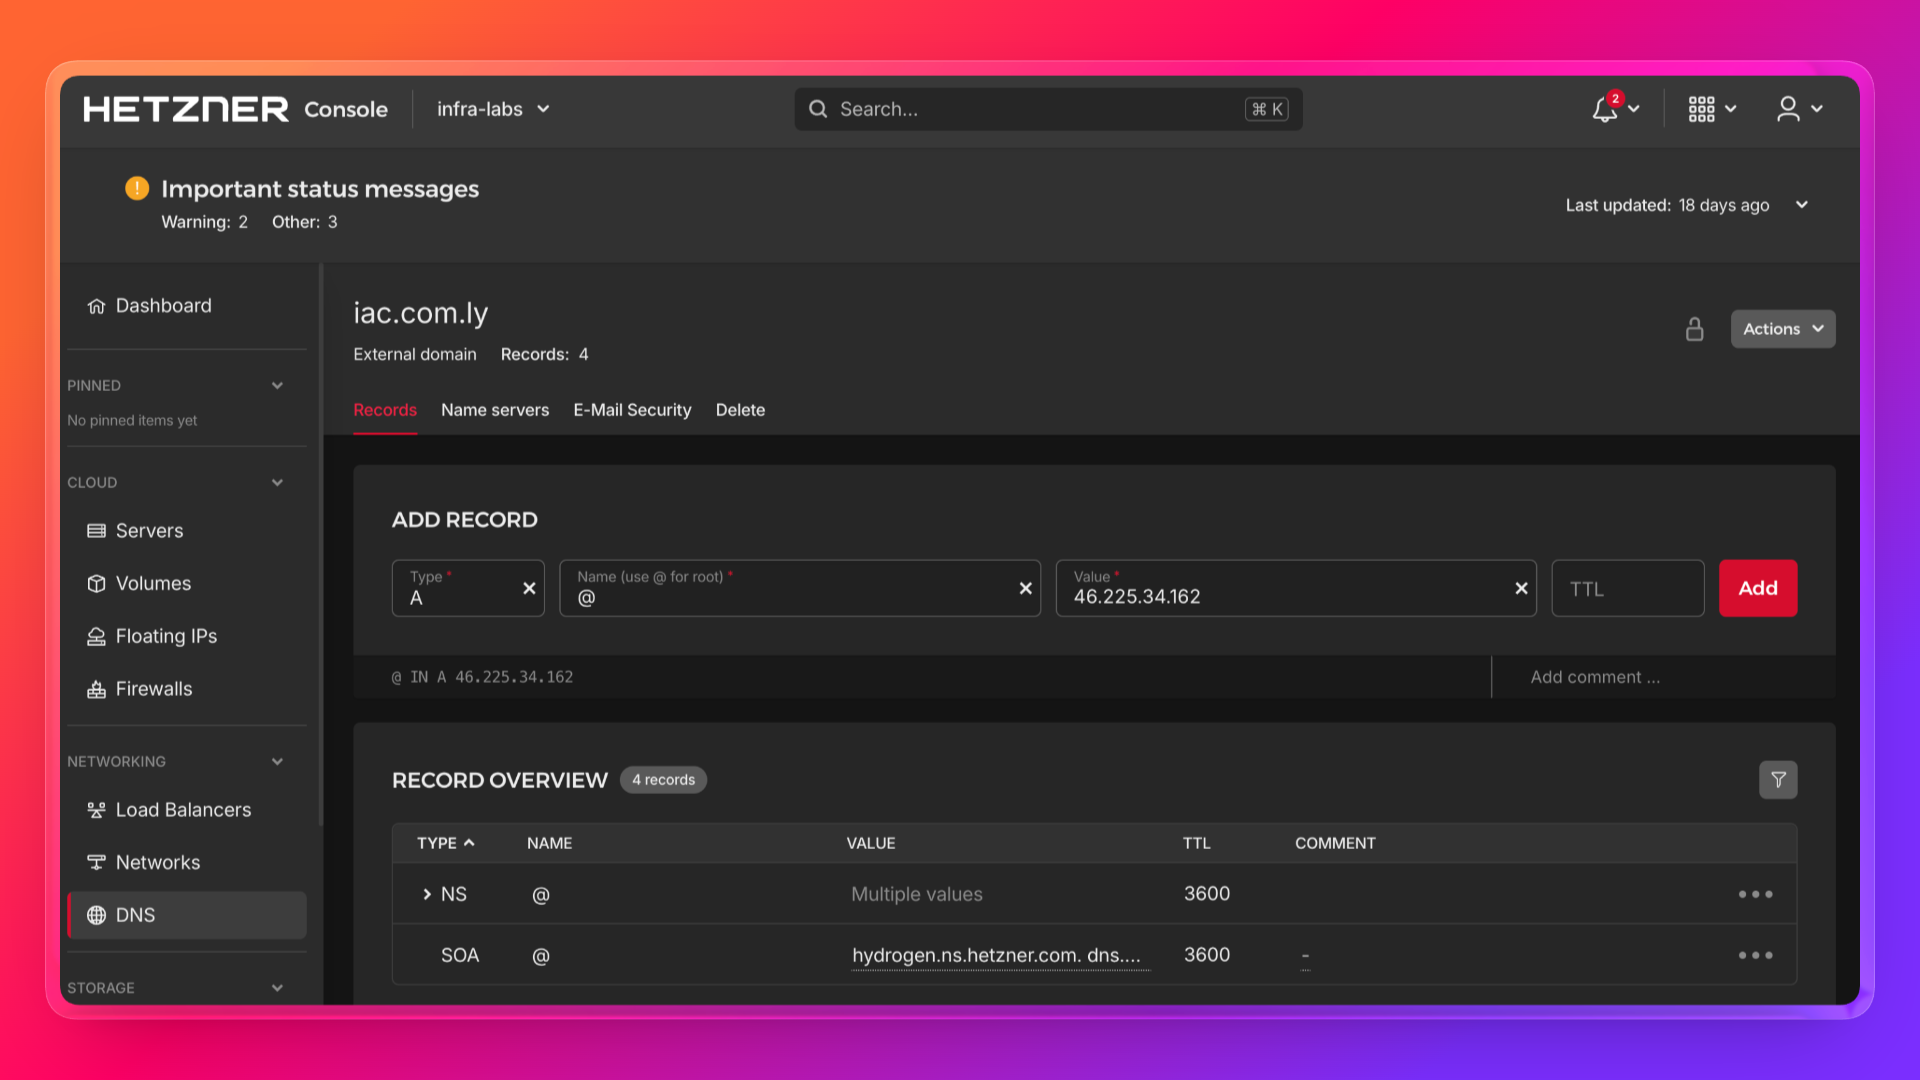
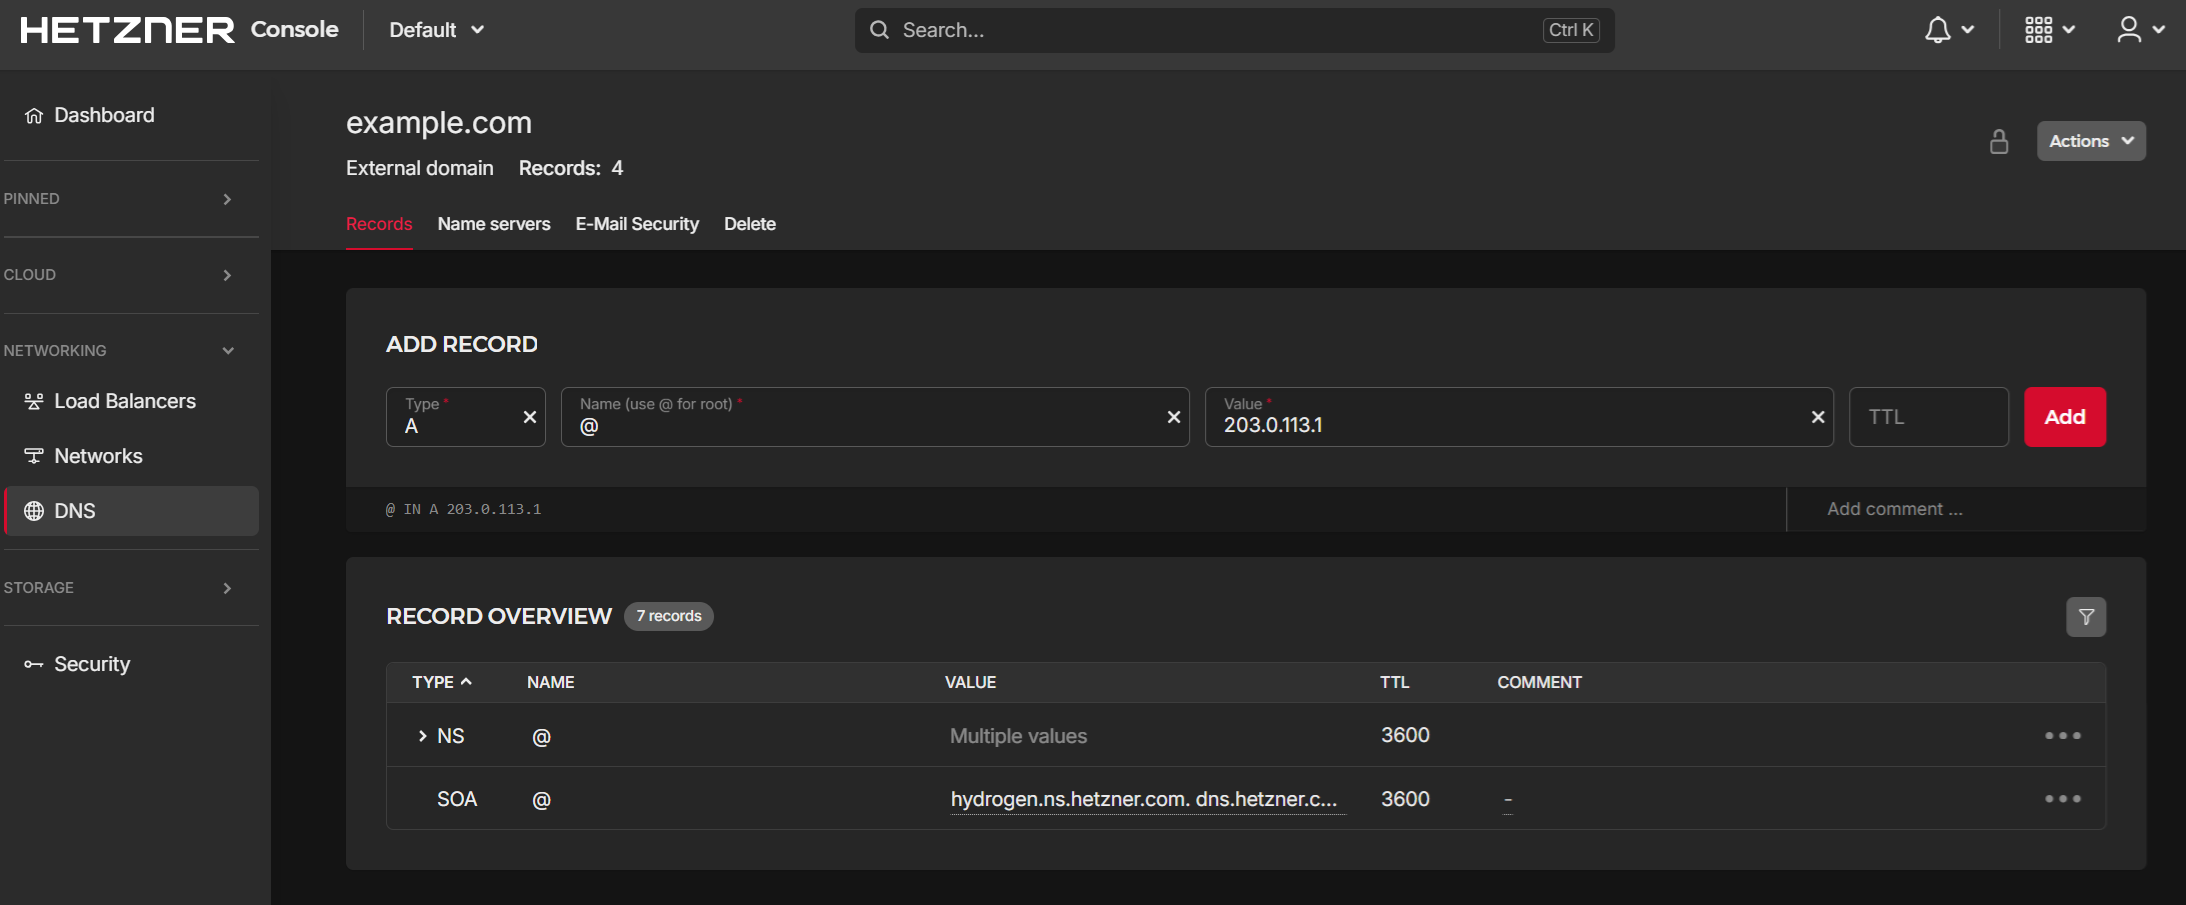
Spelling and formatting updates

diff --git a/tutorials/pulumi-load-balancer-tls-termination-hetzner/01.en.md b/tutorials/pulumi-load-balancer-tls-termination-hetzner/01.en.md
@@ -2,7 +2,7 @@
 SPDX-License-Identifier: MIT
 path: "/tutorials/pulumi-load-balancer-tls-termination-hetzner"
 slug: "pulumi-load-balancer-tls-termination-hetzner"
-date: "2026-03-24"
+date: "2026-03-31"
 title: "TLS Termination on a Hetzner Load Balancer using Pulumi"
 short_description: "Add HTTPS to a Hetzner Load Balancer using a Hetzner managed certificate — TLS is terminated at the Load Balancer, servers stay on plain HTTP"
 tags: ["Pulumi", "TypeScript", "TLS", "Load Balancer", "Networking", "Ubuntu"]
@@ -35,20 +35,23 @@ By the end, you will have:
 - Completed [Pulumi Load Balancer with Two App Servers on Hetzner Cloud](https://community.hetzner.com/tutorials/pulumi-load-balancer-two-servers-hetzner), or already familiar with Pulumi and Hetzner Load Balancers
 - A domain name you can point to Hetzner DNS
 - Hetzner Cloud [API token](https://docs.hetzner.com/cloud/api/getting-started/generating-api-token)
-- [Node.js](https://nodejs.org/) 18 or later
-- [Pulumi CLI](https://www.pulumi.com/docs/install/) installed
+- [Node.js](https://nodejs.org/en/download) 18 or later
+- [Pulumi CLI](https://www.pulumi.com/docs/install/) installed and logged in:
+  ```bash
+  pulumi login --local
+  ```
 
 **Example values used in this tutorial**
 
 | Resource                 | Value            |
 | ------------------------ | ---------------- |
-| Domain                   | `iac.com.ly`     |
+| Domain                   | `example.com`    |
 | Network CIDR             | `10.44.0.0/16`   |
 | Private subnet           | `10.44.10.0/24`  |
 | Load Balancer private IP | `10.44.10.10`    |
 | App server 1 private IP  | `10.44.10.11`    |
 | App server 2 private IP  | `10.44.10.12`    |
-| Location                 | `nbg1`           |
+| Location                 | `hel1`           |
 | Server type              | `cx23`           |
 | OS image                 | `ubuntu-24.04`   |
 
@@ -75,17 +78,17 @@ Key points:
 
 > Complete this step first — DNS propagation can take up to 10 minutes. Start it now and continue with Step 2 while you wait.
 
-Hetzner managed certificates use Let's Encrypt DNS-01 validation. Let's Encrypt writes a `_acme-challenge` TXT record to your domain to prove ownership. For this to work automatically, your domain's DNS must be managed by Hetzner DNS.
+Hetzner managed certificates use [Let's Encrypt DNS-01](https://letsencrypt.org/docs/challenge-types/#dns-01-challenge) validation. Let's Encrypt writes a `_acme-challenge` TXT record to your domain to prove ownership. For this to work automatically, your domain's DNS must be managed by Hetzner DNS.
 
 ### Step 1.1 - Create a zone in Hetzner DNS
 
-Go to [dns.hetzner.com](https://dns.hetzner.com) and click **Add zone**. Enter your root domain name (e.g. `iac.com.ly`) and confirm.
+Go to [console.hetzner.com](https://console.hetzner.com) and [add a zone](https://docs.hetzner.com/networking/dns/getting-started/creating-a-zone). Enter your root domain name (e.g. `example.com`) and confirm.
 
-> Hetzner DNS only accepts root domains — not subdomains. Enter `iac.com.ly`, not `tls.iac.com.ly`.
+> Hetzner DNS only accepts root domains — not subdomains. Enter `example.com`, not `tls.example.com`.
 
 ![Add zone](images/hetzner-dns-zone.png)
 
-After the zone is created, Hetzner shows you the nameservers assigned to your zone:
+After the zone is created, Hetzner shows you the [nameservers assigned to your zone](https://docs.hetzner.com/networking/dns/overview#authoritative-name-servers):
 
 ```text
 hydrogen.ns.hetzner.com
@@ -103,10 +106,10 @@ At your domain registrar or DNS provider, update the nameservers for your domain
 
 ### Step 1.3 - Verify the delegation
 
-DNS changes can take a few minutes to propagate. Run this command to verify Hetzner DNS is now authoritative for your domain:
+DNS changes can take a while to propagate. Run this command to verify Hetzner DNS is now authoritative for your domain:
 
 ```bash
-dig NS iac.com.ly +short
+dig NS example.com +short
 ```
 
 When the output shows Hetzner's nameservers, you are ready to continue:
@@ -151,14 +154,23 @@ set -a && source .env && set +a
 
 Configure the stack:
 
+> Replace `~/.ssh/id_rsa.pub` with the path to your public key if it is different.
+
 ```bash
-pulumi config set domain iac.com.ly
+pulumi config set domain example.com
 pulumi config set sshPublicKeyPath ~/.ssh/id_rsa.pub
 pulumi config set --secret hcloudToken "$HCLOUD_TOKEN"
-pulumi config set sshAllowedCidrs "[\"$(curl -s ifconfig.me)/32\"]"
+pulumi config set sshAllowedCidrs "[\"$(curl -4 https://ip.hetzner.com)/32\"]"
 ```
 
-> If you already have an SSH key added to your Hetzner project, use `pulumi config set sshKeyName your-key-name` instead of `sshPublicKeyPath`.
+Check your values:
+
+```bash
+pulumi config get domain
+pulumi config get sshPublicKeyPath
+pulumi config get hcloudToken
+pulumi config get sshAllowedCidrs
+```
 
 ## Step 3 - Write the infrastructure code
 
@@ -189,7 +201,7 @@ if (!existingSshKeyName && !sshPublicKeyPath) {
   );
 }
 
-const location = projectConfig.get("location") ?? "nbg1";
+const location = projectConfig.get("location") ?? "hel1";
 const networkZone = projectConfig.get("networkZone") ?? "eu-central";
 const loadBalancerType = projectConfig.get("loadBalancerType") ?? "lb11";
 const serverType = projectConfig.get("serverType") ?? "cx23";
@@ -473,7 +485,7 @@ set -a && source .env && set +a
 pulumi preview
 ```
 
-You should see 14 resources to be created: provider, SSH key, firewall, network, subnet, 2 servers, Load Balancer, LB network attachment, 2 LB targets, managed certificate, and HTTPS service.
+You should see 14 resources to be created: provider, SSH key, Firewall, network, subnet, 2 servers, Load Balancer, LB network attachment, 2 LB targets, managed certificate, and HTTPS service.
 
 Deploy when ready:
 
@@ -481,7 +493,7 @@ Deploy when ready:
 pulumi up
 ```
 
-Pulumi prompts you to confirm. Type `yes`. The deployment takes about 2–3 minutes. The managed certificate issuance adds roughly 1–2 minutes on top of the server creation time.
+Pulumi prompts you to confirm. Select `yes`. The deployment takes about 2–3 minutes. The managed certificate issuance adds roughly 1–2 minutes on top of the server creation time.
 
 ## Step 5 - Add the DNS record and verify
 
@@ -489,10 +501,10 @@ After the deployment completes, Pulumi shows the `dnsNote` output with the exact
 
 ```bash
 pulumi stack output dnsNote
-# Add an A record in Hetzner DNS: iac.com.ly → <load-balancer-ip>
+# Add an A record in Hetzner DNS: example.com → <load-balancer-ip>
 ```
 
-Go to [dns.hetzner.com](https://dns.hetzner.com), open the zone for your domain, and add an A record:
+Go to [console.hetzner.com](https://console.hetzner.com), open the zone for your domain, and add an A record:
 
 | Type | Name | Value                  | TTL |
 | ---- | ---- | ---------------------- | --- |
@@ -504,16 +516,16 @@ Wait about a minute for DNS to propagate, then verify:
 
 ```bash
 # Check HTTPS is working
-curl https://iac.com.ly/
+curl https://example.com/
 
 # Check the health endpoint
-curl https://iac.com.ly/health
+curl https://example.com/health
 # expected output: ok
 
 # Check HTTP redirects to HTTPS
-curl -I http://iac.com.ly/
+curl -I http://example.com/
 # expected: HTTP/1.1 301 Moved Permanently
-#           location: https://iac.com.ly/
+#           location: https://example.com/
 ```
 
 Refresh the first curl a few times — you will see responses alternating between `app-1` and `app-2` as the Load Balancer distributes traffic.
@@ -524,10 +536,10 @@ Before destroying the infrastructure, delete the A record from Hetzner DNS. Run 
 
 ```bash
 pulumi stack output cleanupNote
-# Before destroying, delete the A record in Hetzner DNS for iac.com.ly
+# Before destroying, delete the A record in Hetzner DNS for example.com
 ```
 
-Go to [dns.hetzner.com](https://dns.hetzner.com), open your zone, and delete the A record you added in Step 5.
+Go to [console.hetzner.com](https://console.hetzner.com), open your zone, and delete the A record you added in Step 5.
 
 Then destroy the infrastructure:
 
@@ -550,6 +562,7 @@ Some directions to explore next:
 **Full source code:** [hetzner-tls-lb-pulumi](https://github.com/salemaljebaly/infra-labs/tree/main/hetzner-tls-lb-pulumi)
 
 ##### License: MIT
+
 <!--
 
 Contributor's Certificate of Origin